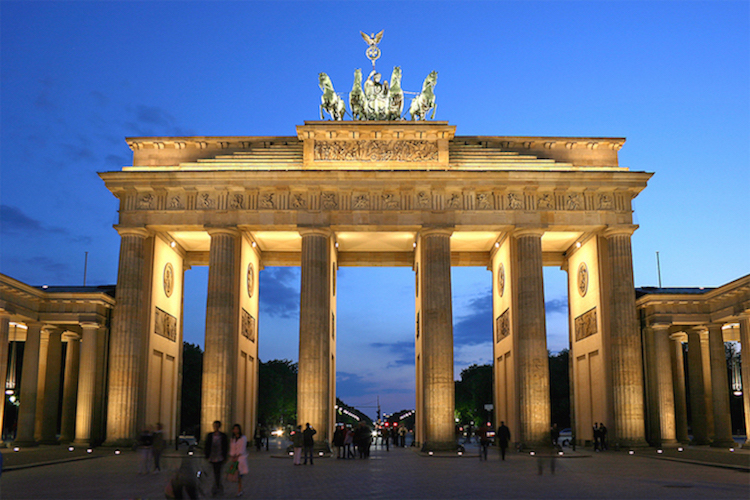
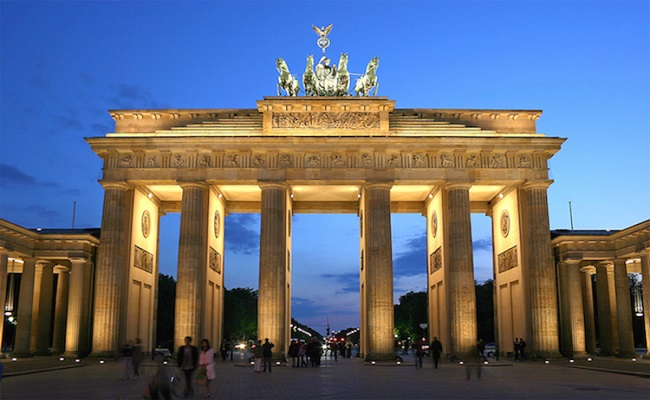
5th Commit
Updated Index and style sheet with a few images added

diff --git a/LimitlessVapes/Index.html b/LimitlessVapes/Index.html
@@ -45,7 +45,7 @@
 								</div>
 
 								<div class="row">
-									<div class="col sorting-width box">
+									<div class="col width-of-four box">
 										<i class="fa fa-spinner fa-pulse fa-3x fa-fw big-icon"></i>
 										<h3>Cheap Flavours</h3>
 										<p>
@@ -53,7 +53,7 @@
 											The nicotine instillied within these flaours are to a minimum amount.
 										</p>
 									</div>
-									<div class="col sorting-width box">
+									<div class="col width-of-four box">
 										<i class="fa fa-thumbs-up fa-3x big-icon"></i>
 										<h3>Long Lasting</h3>
 										<p>
@@ -61,7 +61,7 @@
 											cigarettes! These flavours would eventually result smokers to resort to non nic vape flavours.
 										</p>
 									</div>
-									<div class="col sorting-width box">
+									<div class="col width-of-four box">
 										<i class="fa fa-line-chart fa-3x big-icon" aria-hidden="true"></i>
 										<h3>Quality Standard</h3>
 										<p>
@@ -70,9 +70,9 @@
 										</p>
 									</div>
 
-									<div class="box">
+									<div class="col width-of-four box">
 										<i class="fa fa-gbp fa-3x big-icon" aria-hidden="true"></i>
-										<h3>Discounts for regulars</h3>
+										<h3>Discounts</h3>
 										<p>
 											After purchasing a certain amount of flavours, you would be given a coupon that would allow you to purchase
 											certain flavours on a given discount. You may also be given priority to flavours that are labelled as special
@@ -166,8 +166,7 @@
 					</div>
 					<div class="row">
 
-
-						<div class="col width-of-four">
+						<div class="col width-of-four box">
 								<img src="resources/images/london.jpg" alt="London">
 								<h3>London</h3>
 								<div class="city-feature">
@@ -179,7 +178,7 @@
 										20+ Mods
 								</div>
 						</div>
-						<div class="col width-of-four">
+						<div class="col width-of-four box">
 								<img src="resources/images/san-francisco.jpg" alt="San Francisco">
 								<h3>San Francisco</h3>
 								<div class="city-feature">
@@ -191,7 +190,7 @@
 										35+ Mods
 								</div>
 						</div>
-						<div class="col width-of-four">
+						<div class="col width-of-four box">
 							<img src="resources/images/manchester.jpg" alt="Manchester">
 								<h3>Manchester</h3>
 								<div class="city-feature">
@@ -204,8 +203,18 @@
 								</div>
 						</div>
 
-
-
+						<div class="col width-of-four box">
+							<img src="resources/images/berlin.jpg" alt="Berlin">
+								<h3>Berlin</h3>
+								<div class="city-feature">
+										<i class="fa fa-user-circle"></i>
+										100+ Flavours
+								</div>
+								<div class="city-feature">
+										<i class="fa fa-star"></i>
+										99+ Mods
+								</div>
+						</div>
 					</div>
 				</section>
 			</body>

diff --git a/LimitlessVapes/resources/css/style.css b/LimitlessVapes/resources/css/style.css
@@ -27,18 +27,17 @@ html {
  	visibility: hidden;
 }
 
-.box{
-		padding: 1%;
-}
-
-.row{
-
-	max-width: 1140px;
-	margin: 0 auto;
+.row {
+    max-width: 1140px;
+    margin: 0 auto;
 }
 
 section {
-		padding: 80px 0;
+    padding: 80px 0;
+}
+
+.box {
+    padding: 1%;
 }
 
 /* ------------------------------------- */
@@ -48,13 +47,9 @@ section {
 .col {
 	display: block;
 	float:left;
-	margin: 1% 0 1% 1.6%;
+	margin: 1% 0 1% 0%; /* Creating space from four directions to from a column */
 }
 
-
-.sorting-width {
-	width: 23.8%;
-}
 
 .width-of-two {
 	width: 49.2%;
@@ -344,3 +339,11 @@ color: #fff;
 /* ------------------------------------- */
 /* 							Cities  								 */
 /* ------------------------------------- */
+
+.box img {
+
+	width: 100%;
+	height: auto;
+	margin-bottom: 15px;
+	text-align: center;
+}
